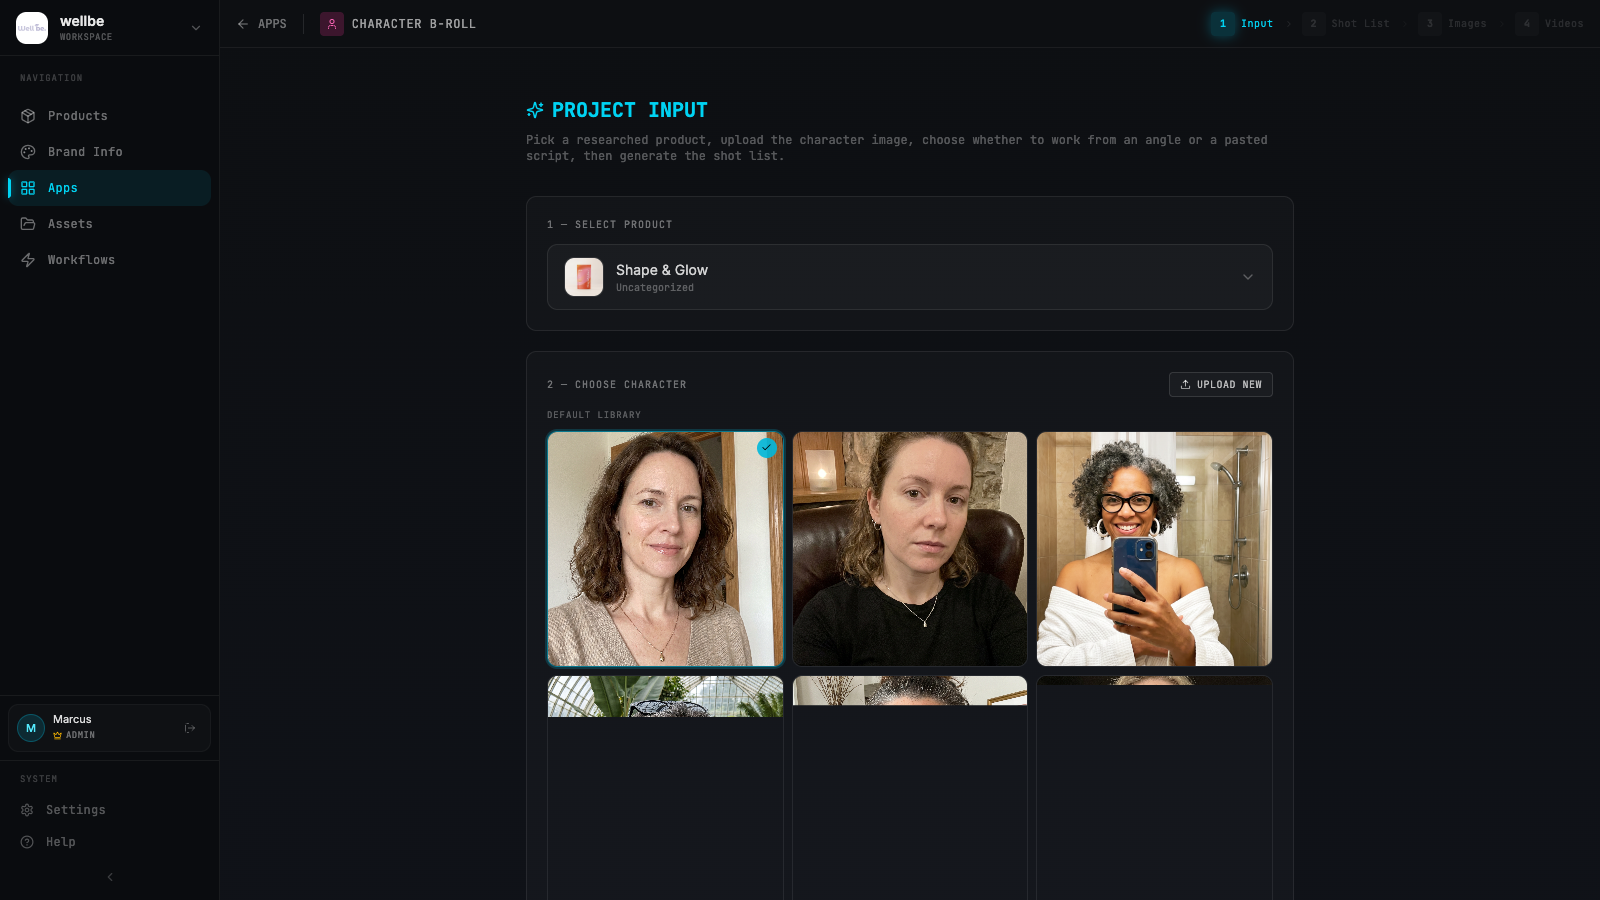
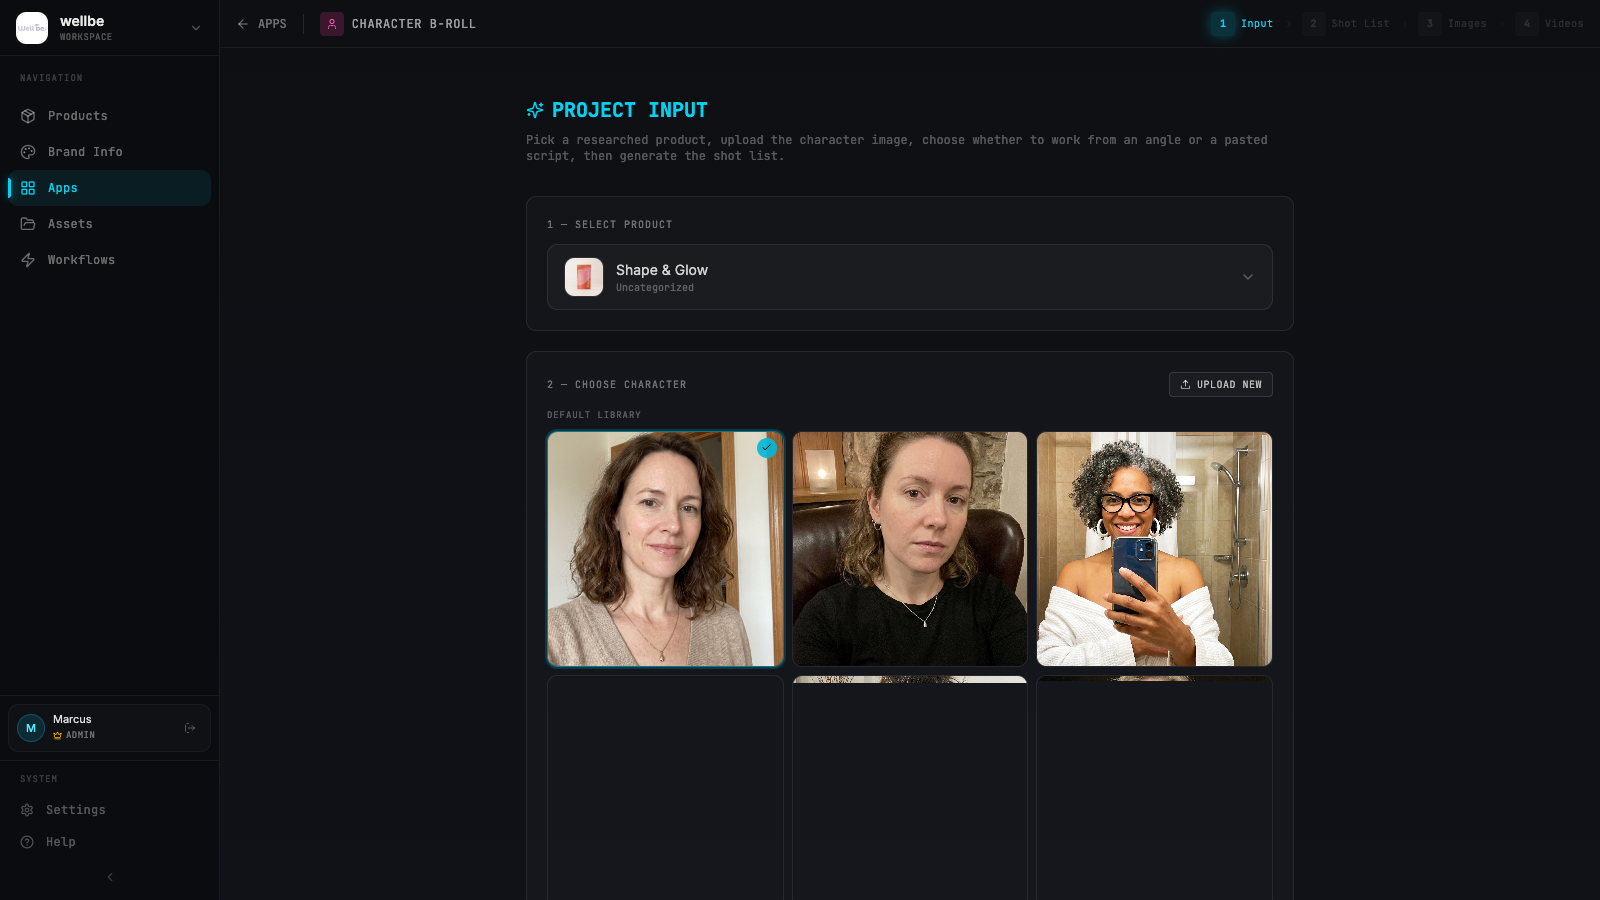
Docs: add real video screenshot for step 4 (2 kling outputs)
Extends the capture script with a budget-conscious step-4 routine:
instead of clicking "Generate Videos" against all 20 shots (~$50/run),
we click "Approve" on exactly 2 ready image tiles, then trigger the
batch — character-broll's generateAllVideos() only fires for approved
shots, so only 2 videos render (~$5/run).

Re-captures all 4 screenshots in one pass:
  01-setup.png    — Shape & Glow + first female character selected
  02-shot-list.png — 20 generated shots with category badges
  03-images.png   — IMAGES (5/20), three fully-rendered tiles showing
                    the same character across different shots
  04-videos.png   — VIDEOS (2/2), two real kling-video/v3/pro outputs
                    playing inline in the actual UI

The docs page at /docs/character-broll now shows real outputs for
every stage of the walkthrough.

Changed region(s): [[0.3438, 0.6844, 0.6562, 0.8089], [0.6875, 0.7467, 0.75, 0.7778], [0.6875, 0.4978, 0.7188, 0.5289]]

diff --git a/scripts/capture-character-broll-docs.ts b/scripts/capture-character-broll-docs.ts
@@ -402,25 +402,59 @@ async function run() {
     }
 
     // ── Step 4: Videos ──
+    // To stay cheap, we only generate TWO videos (≈ $5 total). The trick:
+    // generateAllVideos() only fires for shots whose imageApproval is
+    // "approved", so we click "APPROVE" on exactly 2 ready image tiles
+    // first, then click "Generate Videos" — the other 18 stay pending.
     if (STAGES.has(4)) {
-      console.log("\nStep 4 — Videos (generates 5s video per shot, ~$2.50 each)");
-      const res = await clickButtonByText(page, /generate all videos|generate videos/i, {
+      console.log("\nStep 4 — Videos (approving only 2 images → only 2 videos fire, ~$5 total)");
+
+      // First: approve exactly TWO images. Each tile has its own APPROVE
+      // button shown once an image is ready. We click 2 of them.
+      const approved = await page.evaluate(() => {
+        // Find all buttons literally labeled "APPROVE" (case-insensitive)
+        // that aren't the bulk "APPROVE ALL" button at the top.
+        const candidates = Array.from(document.querySelectorAll<HTMLButtonElement>("button"))
+          .filter((b) => {
+            const t = (b.textContent ?? "").trim();
+            return /^approve$/i.test(t) && !b.disabled && b.offsetParent !== null;
+          });
+        const toClick = candidates.slice(0, 2);
+        toClick.forEach((b) => b.click());
+        return { found: candidates.length, clicked: toClick.length };
+      });
+      console.log("  approved 2-of-N image tiles:", approved);
+      await sleep(1500);
+
+      // Now click "Generate Videos" — header button. It only fires for the
+      // approved shots (so just our 2).
+      const res = await clickButtonByText(page, /^\s*generate videos\s*(\(\d+\))?\s*$/i, {
         mustNotBeDisabled: true,
       });
       console.log("  clicked generate-videos:", res);
       if (!res.ok) {
         console.log("  could not find generate-videos button — script needs an update");
       } else {
-        await page.waitForFunction(
-          () => {
+        // Poll for 2 video tiles to be ready. Each ready video renders
+        // an actual <video> element with src set (or a fal-media URL).
+        const startedAt = Date.now();
+        const MAX_WAIT_MS = 10 * 60 * 1000;
+        let lastReady = 0;
+        while (Date.now() - startedAt < MAX_WAIT_MS) {
+          const status = await page.evaluate(() => {
             const vids = Array.from(document.querySelectorAll<HTMLVideoElement>("video"));
-            return vids.length >= 2 && vids.slice(0, 2).every((v) => v.src);
-          },
-          { timeout: 600_000 /* 10 min */ },
-        ).catch(() => {
-          console.log("  (timed out waiting for videos — capturing what's on screen)");
-        });
-        await sleep(2000);
+            const ready = vids.filter((v) => v.src && /fal\.media|fal-cdn/.test(v.src));
+            return { total: vids.length, ready: ready.length };
+          });
+          if (status.ready !== lastReady) {
+            const sec = Math.round((Date.now() - startedAt) / 1000);
+            console.log(`  [+${sec}s] videos ready: ${status.ready}/${status.total}`);
+            lastReady = status.ready;
+          }
+          if (status.ready >= 2) break;
+          await sleep(15_000);
+        }
+        await sleep(1500);
         await page.evaluate(() => window.scrollTo(0, 0));
         await sleep(500);
         await captureStep(page, "04-videos.png");
